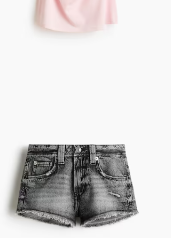
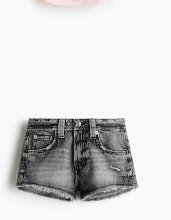
Fix flatlay cropping coordinates to exclude black H&M header and taskbar

Changed region(s): [[0.0292, 0.5182, 0.8187, 0.9818], [0.1754, 0.0, 0.7018, 0.1636]]

diff --git a/verify-flatlays.js b/verify-flatlays.js
@@ -1,0 +1,60 @@
+import puppeteer from 'puppeteer-core';
+import fs from 'fs';
+
+const CHROME_PATH = 'C:\\Program Files\\Google\\Chrome\\Application\\chrome.exe';
+const ARTIFACTS_DIR = 'C:\\Users\\NEEL\\.gemini\\antigravity\\brain\\eade43f7-dabe-4208-979c-64a6d1252a61';
+
+async function delay(ms) {
+  return new Promise(resolve => setTimeout(resolve, ms));
+}
+
+async function run() {
+  console.log("Waiting 60 seconds for Render to deploy the flatlay update...");
+  await delay(60000);
+
+  if (!fs.existsSync(CHROME_PATH)) {
+    console.error("Chrome not found at:", CHROME_PATH);
+    process.exit(1);
+  }
+
+  console.log("Launching Chrome...");
+  const browser = await puppeteer.launch({
+    executablePath: CHROME_PATH,
+    headless: true,
+    args: ['--no-sandbox', '--disable-setuid-sandbox']
+  });
+
+  const page = await browser.newPage();
+  await page.setViewport({ width: 1400, height: 1080 });
+
+  // Listen for console logs
+  page.on('console', msg => {
+    console.log(`[BROWSER CONSOLE ${msg.type().toUpperCase()}]:`, msg.text());
+  });
+
+  console.log("Navigating to https://threadzy.shop...");
+  try {
+    // Navigate with a cache-busting query parameter
+    await page.goto('https://threadzy.shop?v=' + Date.now(), { waitUntil: 'networkidle2', timeout: 30000 });
+    console.log("Navigation complete.");
+
+    // Check first product name in grid
+    const firstProductName = await page.evaluate(() => {
+      const el = document.querySelector('.product-card .product-name');
+      return el ? el.textContent : null;
+    });
+
+    console.log("First product name on live site:", firstProductName);
+
+    console.log("Taking screenshot of the flatlays grid...");
+    await page.screenshot({ path: `${ARTIFACTS_DIR}/live_flatlays_verified.png`, fullPage: false });
+    console.log("Screenshot saved!");
+  } catch (err) {
+    console.error("Verification failed:", err);
+  } finally {
+    await browser.close();
+    console.log("Browser closed.");
+  }
+}
+
+run();
